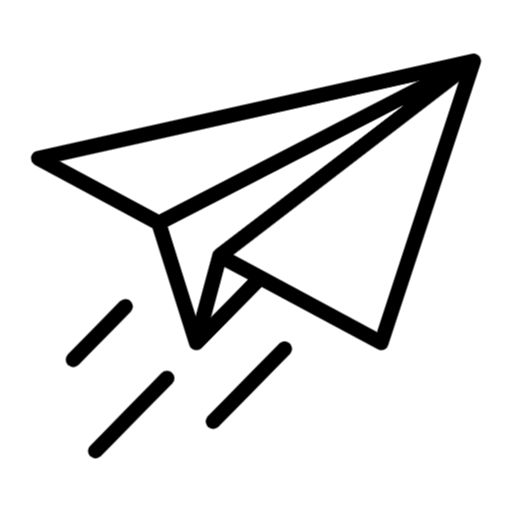
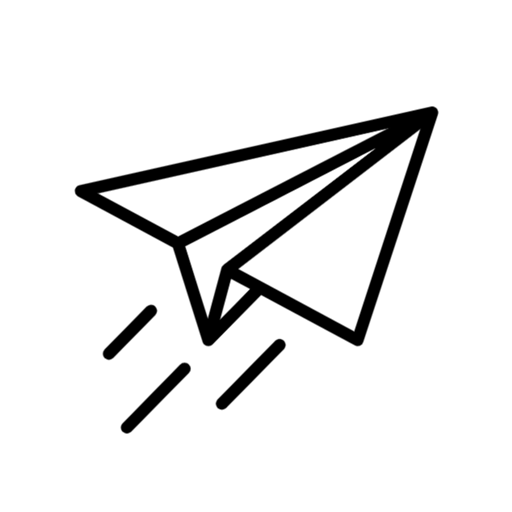
Added optional plane with backgroud

Changed region(s): [[0.0625, 0.0938, 0.9375, 0.9062], [0.125, 0.5625, 0.3125, 0.7188], [0.375, 0.6562, 0.5938, 0.8438]]

diff --git a/public/index.html b/public/index.html
@@ -3,7 +3,7 @@
 
 <head>
   <meta charset="utf-8" />
-  <link rel="icon" href="plane.png">
+  <link rel="icon" href="plane_bg.png">
   <meta name="viewport" content="width=device-width, initial-scale=1" />
   <meta name="theme-color" content="#000000" />
   <meta name="description" content="Web site created using create-react-app" />
